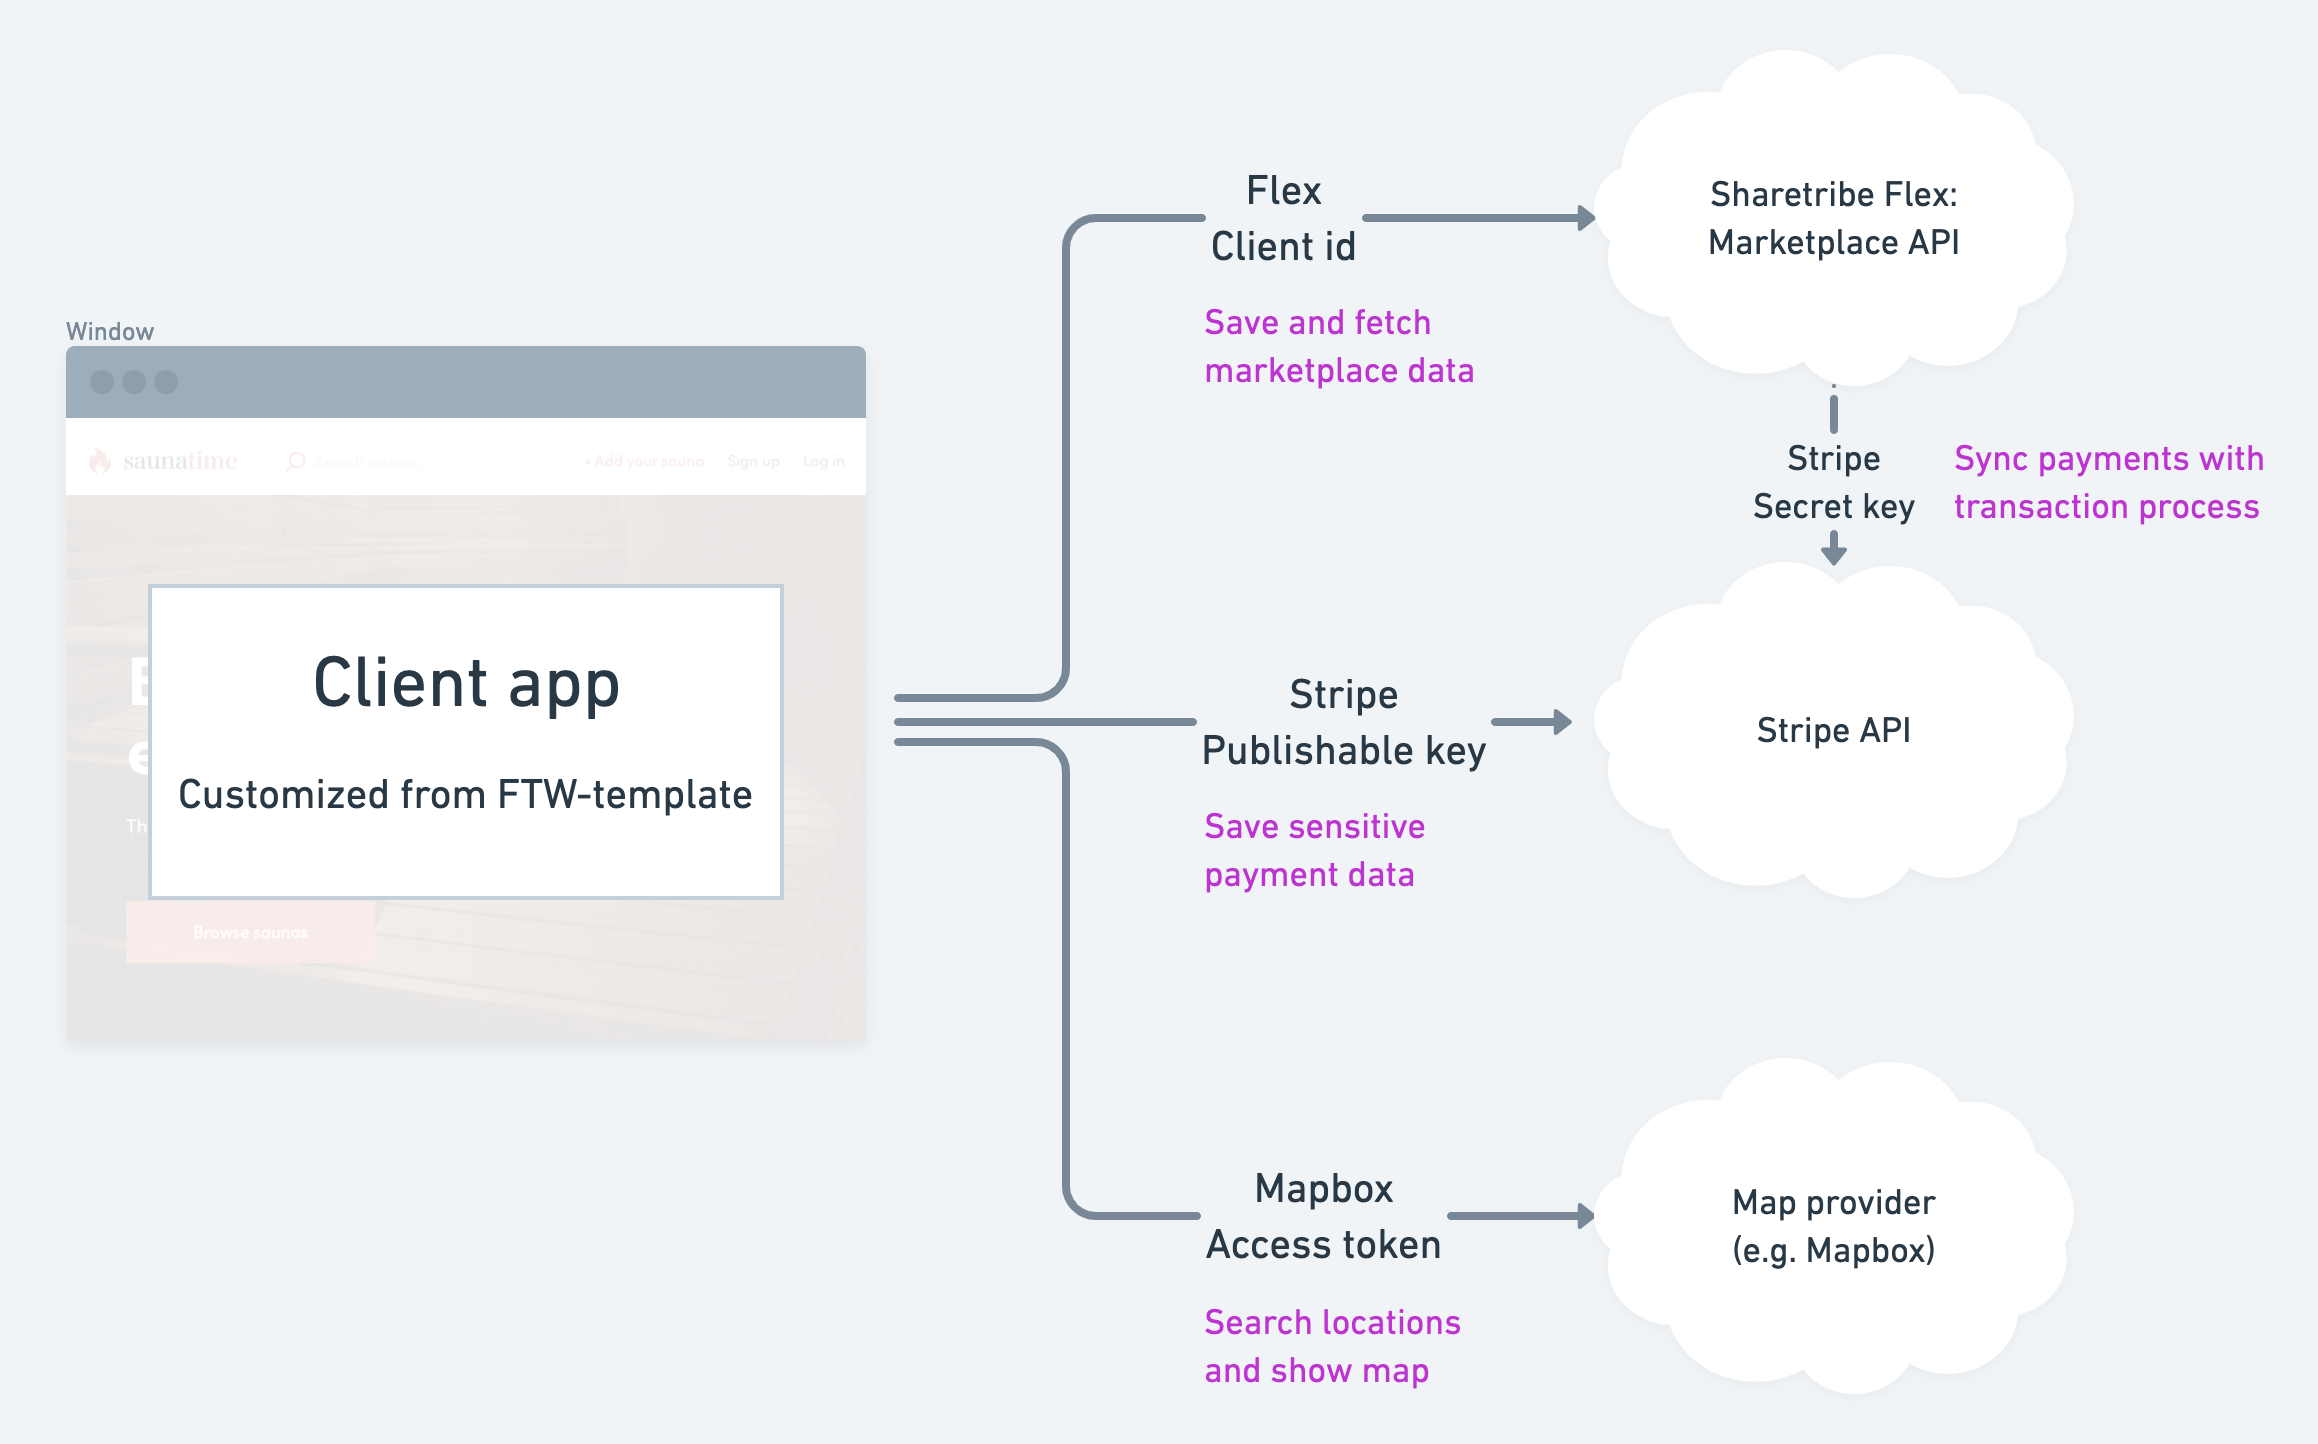
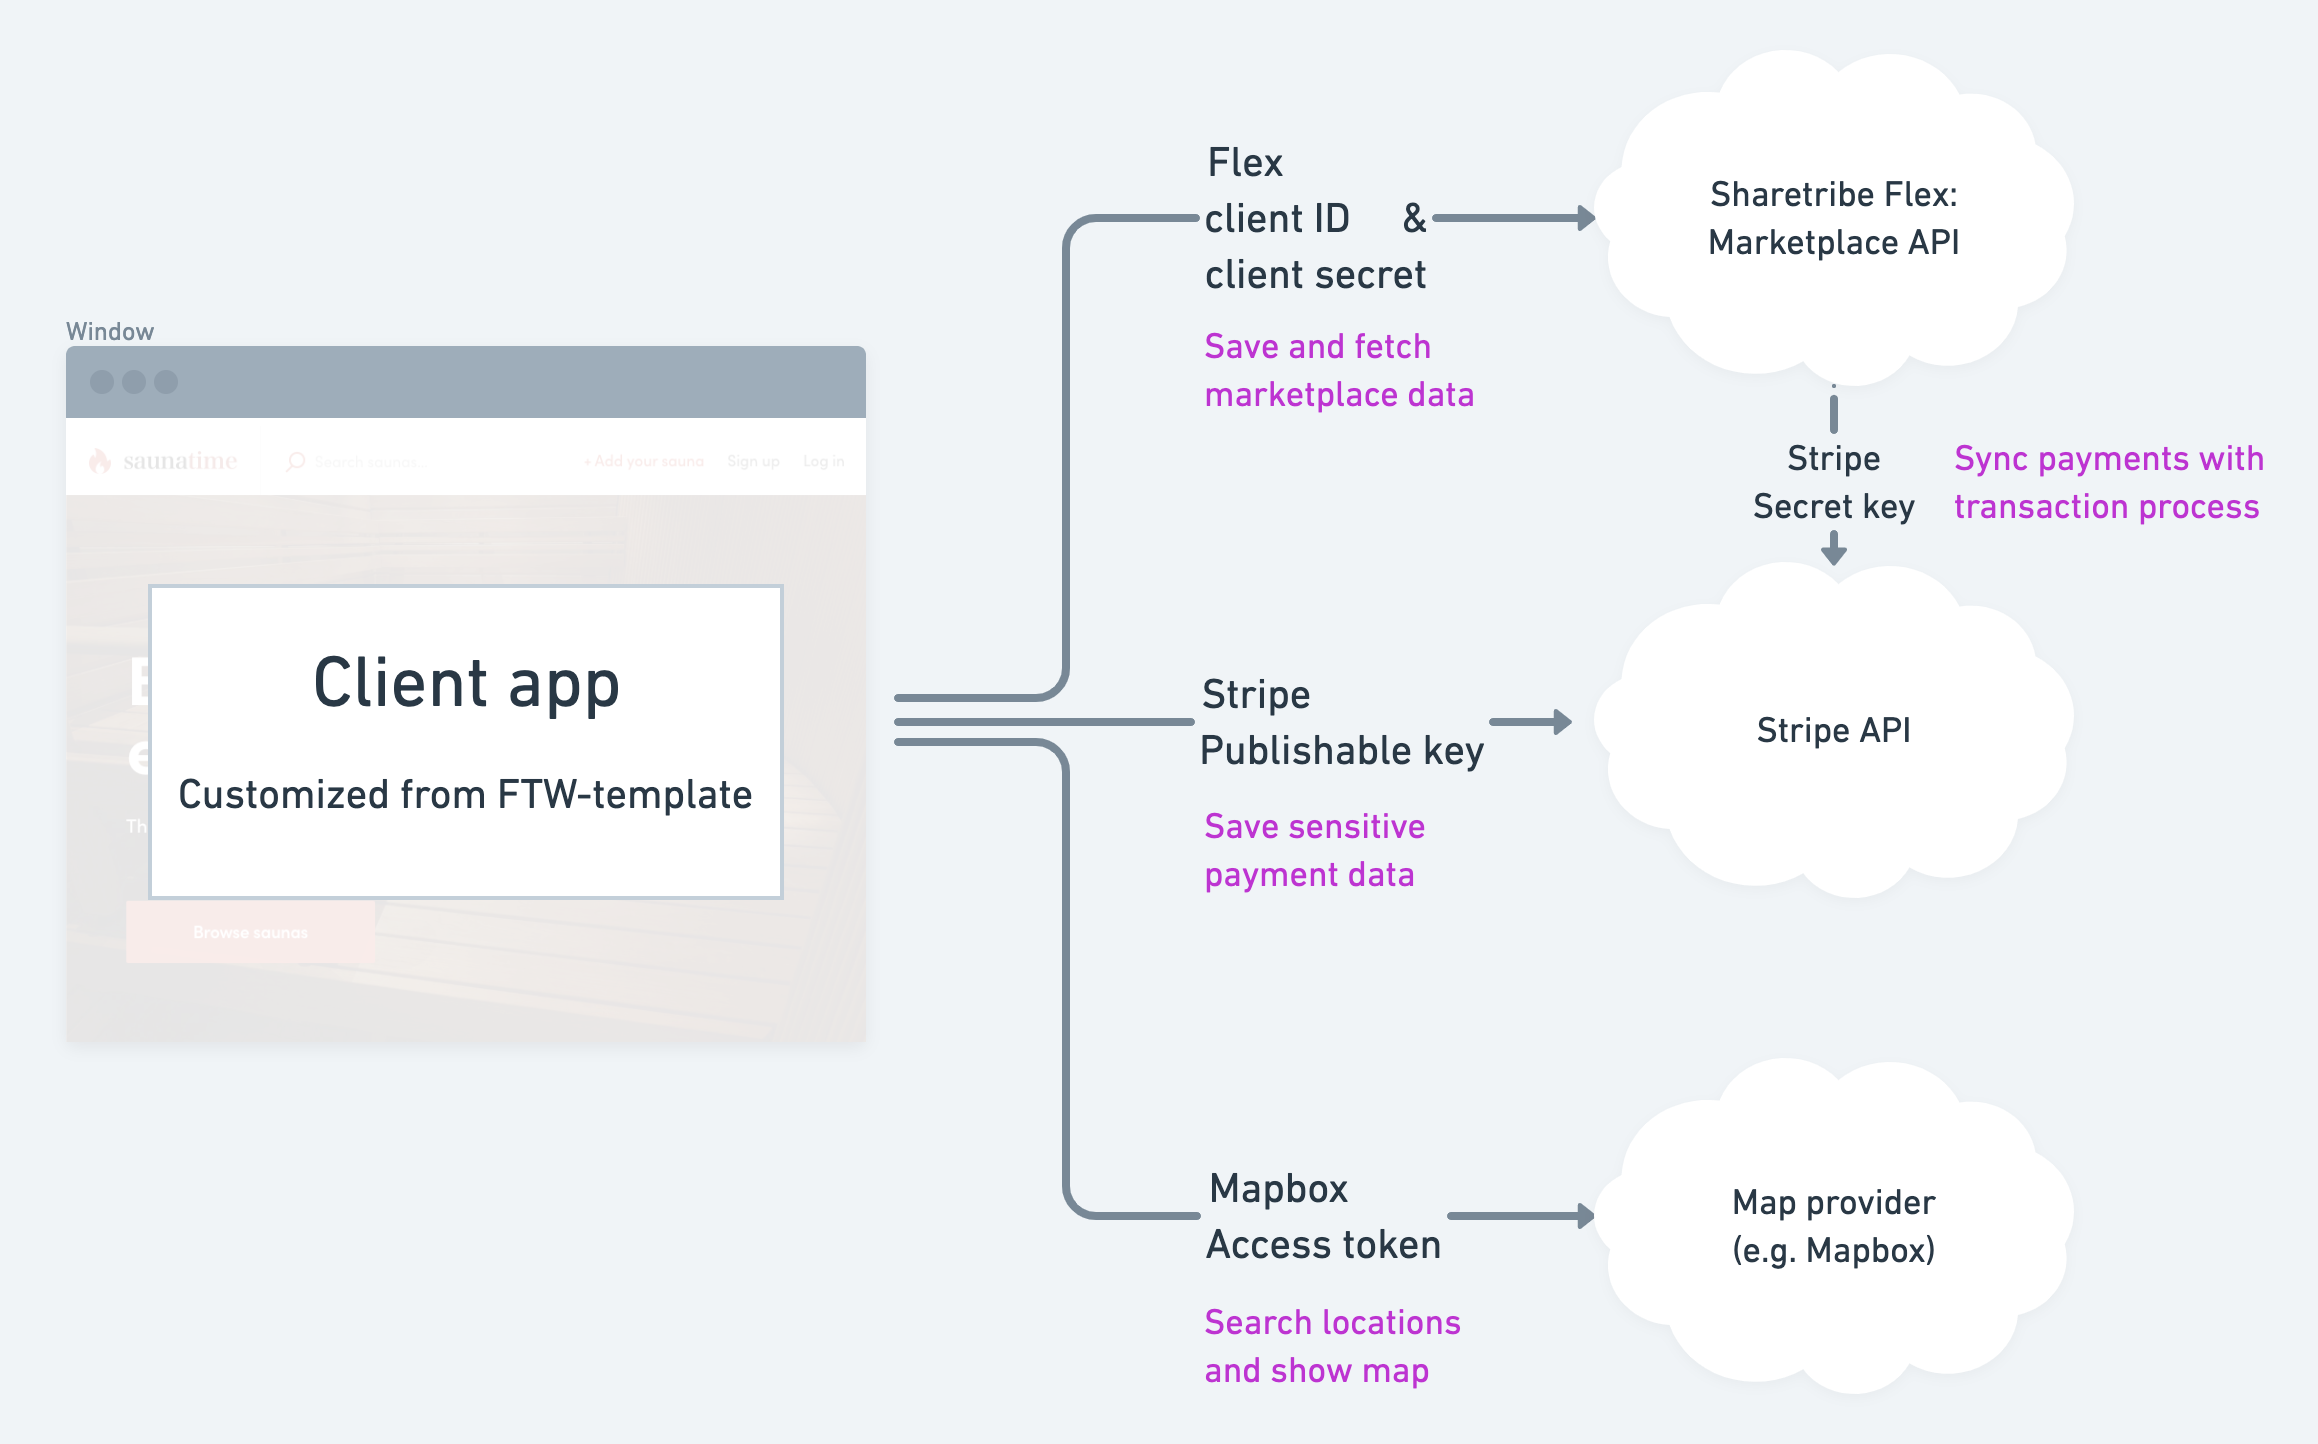
Add client secret to getting started guide

Changed region(s): [[0.497, 0.0935, 0.6523, 0.2805], [0.497, 0.4675, 0.6523, 0.5298], [0.528, 0.8102, 0.5902, 0.8414]]

diff --git a/src/docs/introduction/getting-started-with-ftw-daily/index.md b/src/docs/introduction/getting-started-with-ftw-daily/index.md
@@ -1,7 +1,7 @@
 ---
 title: Getting started
 slug: getting-started-with-ftw-daily
-updated: 2020-02-20
+updated: 2020-06-25
 category: introduction
 ingress:
   Learn how to install one of the Flex Templates for Web (FTW) to your
@@ -139,20 +139,27 @@ and maps for the web app.
 
 ![Mandatory integrations: Flex Marketplace API, Stripe, Map provider](FTW-integrations@2x.png)
 
-FTW templates just need 3 environment variables to make these
+FTW templates just need 4 environment variables to make these
 integrations work.
 
-- **[`REACT_APP_SHARETRIBE_SDK_CLIENT_ID`](#sharetribe-flex-client-id)**
+- **[`REACT_APP_SHARETRIBE_SDK_CLIENT_ID`](#sharetribe-flex-client-id-and-client-secret)**
+- **[`SHARETRIBE_SDK_CLIENT_SECRET`](#sharetribe-flex-client-id-and-client-secret)**
 - **[`REACT_APP_STRIPE_PUBLISHABLE_KEY`](#stripe-keys)**
 - **[`REACT_APP_MAPBOX_ACCESS_TOKEN`](#mapbox-access-token)**
 
-### Sharetribe Flex Client ID
+### Sharetribe Flex client ID and client secret
 
-To use the Marketplace API, you will need a Client ID. You can request
-access at https://www.sharetribe.com/products/flex/
+To use the Marketplace API, you will need a **client ID**. You can
+request access at https://www.sharetribe.com/products/flex/
 
 When you get access, you will be able to log into Flex Console and check
-the Client ID.<br /> Flex Console: _Build > Applications_
+the client ID.<br /> Flex Console: _Build > Applications_
+
+In addition, FTW templates use a transaction process that includes a
+privileged transition. That makes it possible to customize pricing on
+the small server that's included to the template. **Client secret** is
+needed to make this secure call from the template's own server to Flex
+API.
 
 ![Flex Console: Applications tab](./console-build-application.png)
 
